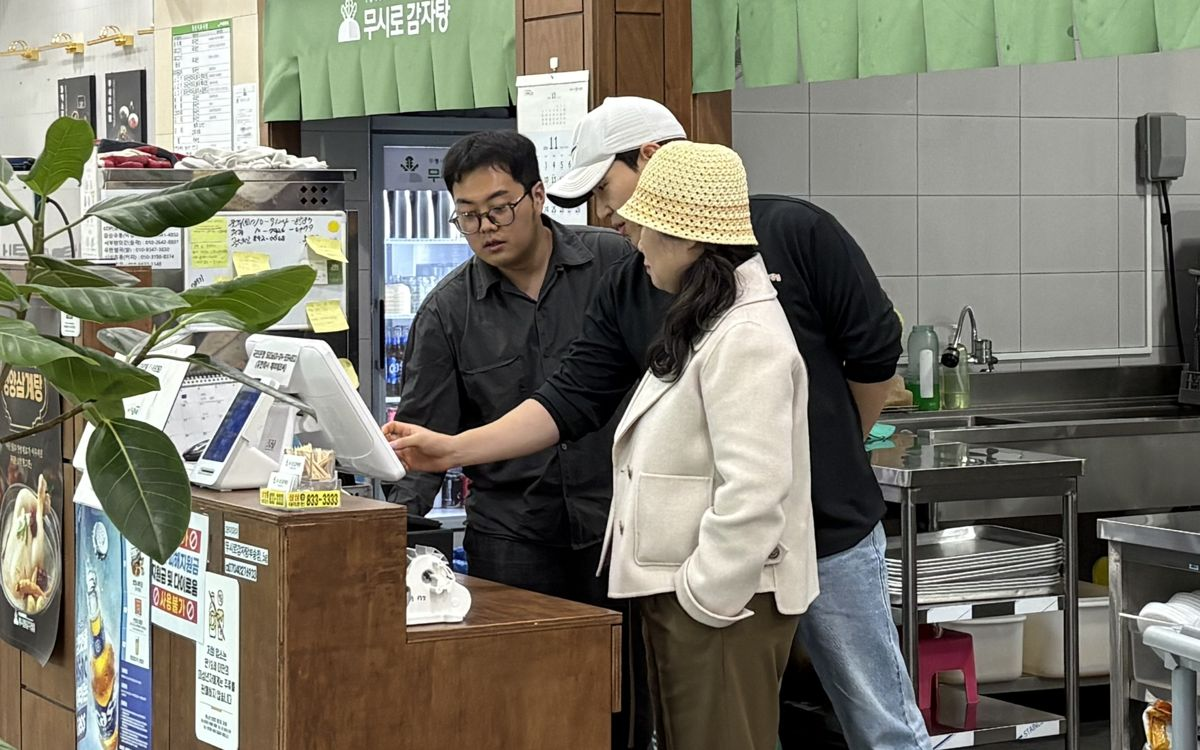
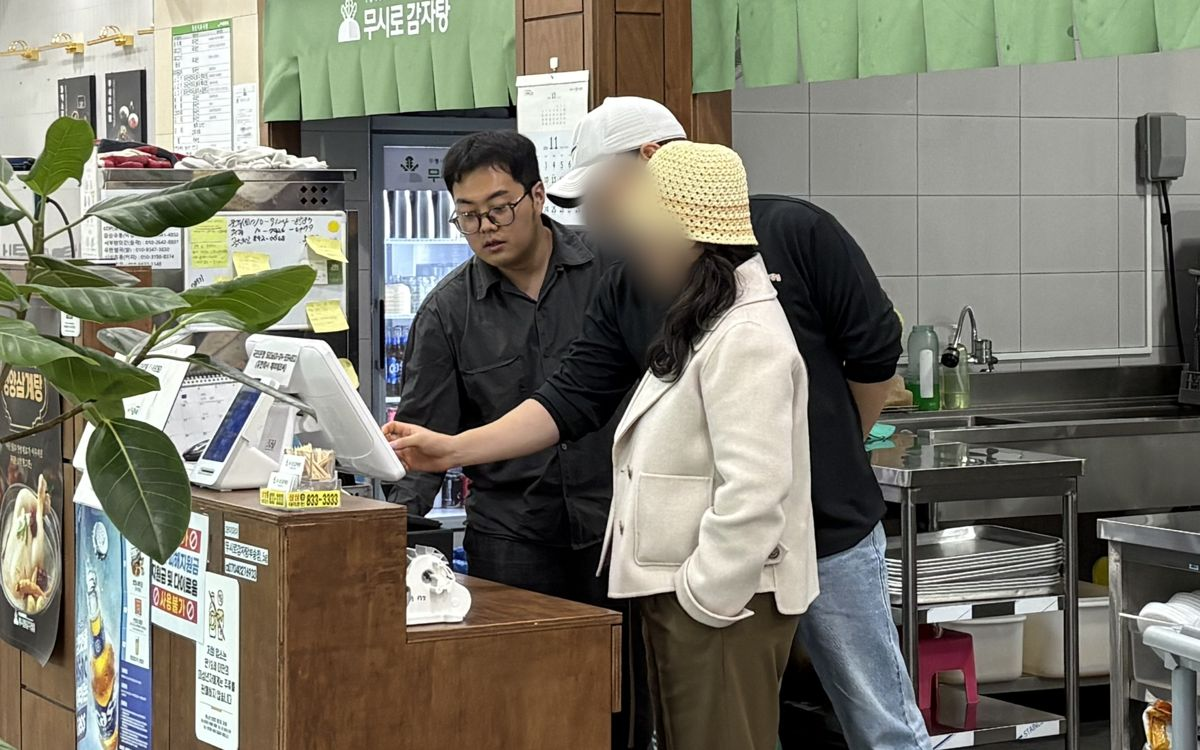
오픈 지원 사진 얼굴 흐림 처리(직원 제외)

Changed region(s): [[0.4625, 0.184, 0.5858, 0.3987]]

diff --git a/index.html b/index.html
@@ -253,7 +253,7 @@ footer p{margin-bottom:6px}
     <h2 class="tt rv d1">오픈 전에도, 오픈 후에도<br>본사가 함께합니다</h2>
     <div class="cards">
       <div class="card rv"><img src="img/kitchen-2.jpg" alt="조리 교육" loading="lazy" style="object-position:center 35%"><div><h3>조리·운영 교육</h3><p>직영점 실전 교육으로 오픈 전 조리와 운영을 익힙니다.</p></div></div>
-      <div class="card rv d1"><img src="img/open-support.jpg" alt="매장 포스 운영 교육 모습" loading="lazy"><div><h3>오픈 지원</h3><p>오픈 준비 과정과 초기 운영을 본사가 함께 점검합니다.</p></div></div>
+      <div class="card rv d1"><img src="img/open-support.jpg?v=8ef323a7" alt="매장 포스 운영 교육 모습" loading="lazy"><div><h3>오픈 지원</h3><p>오픈 준비 과정과 초기 운영을 본사가 함께 점검합니다.</p></div></div>
       <div class="card rv d2"><img src="img/consult-1.jpg" alt="마케팅 지원" loading="lazy"><div><h3>마케팅 지원</h3><p>플레이스·SNS 세팅과 점주 마케팅 교육을 지원합니다.</p></div></div>
     </div>
     <div class="benefit rv">
